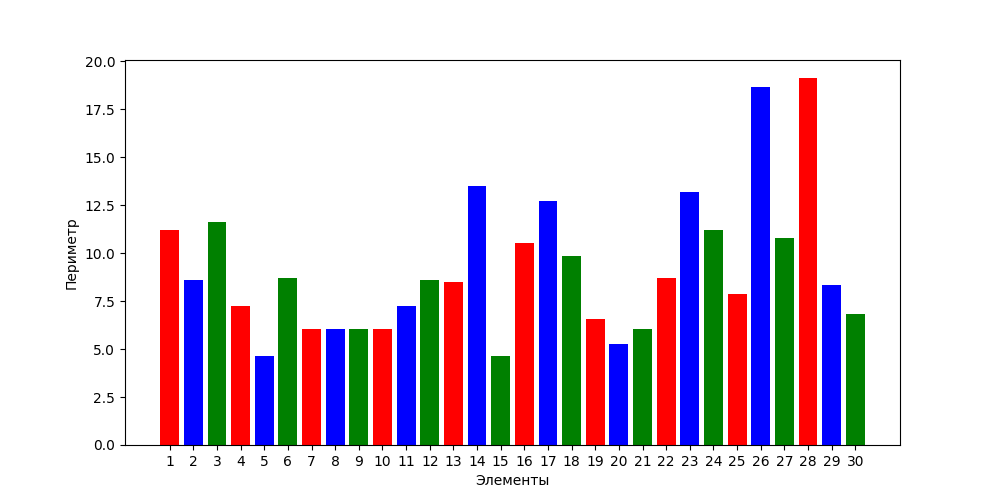
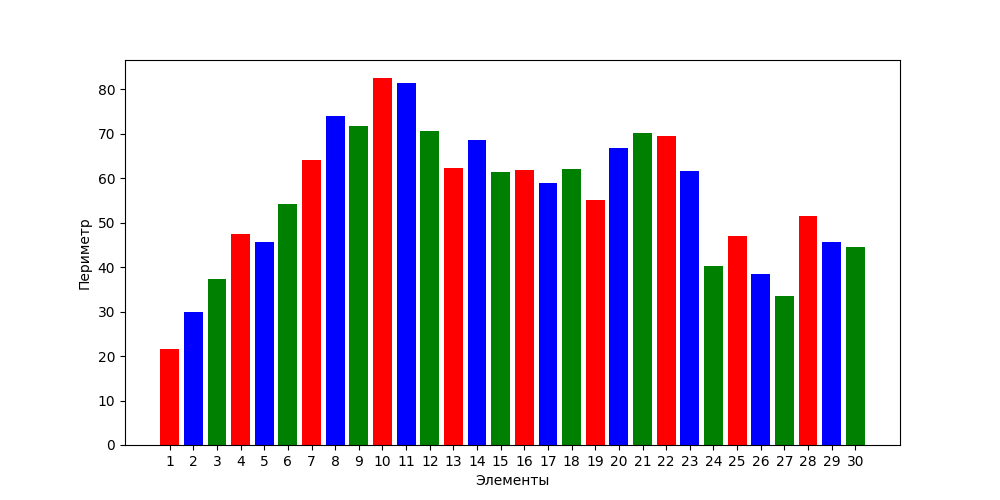
lab5 fix

diff --git a/lab5/app.py b/lab5/app.py
@@ -25,15 +25,15 @@ if __name__ == '__main__':
     for element in elements_list:
         sql = provider.get('get_node.sql', id=element[1])
         db_point = select_dict(app.config['db_config'], sql)[0]
-        point1 = Point(db_point['n1'], db_point['n2'], db_point['n3'])
+        point1 = Point(db_point['id'], db_point['x'], db_point['y'])
 
         sql = provider.get('get_node.sql', id=element[2])
         db_point = select_dict(app.config['db_config'], sql)[0]
-        point2 = Point(db_point['n1'], db_point['n2'], db_point['n3'])
+        point2 = Point(db_point['id'], db_point['x'], db_point['y'])
 
         sql = provider.get('get_node.sql', id=element[3])
         db_point = select_dict(app.config['db_config'], sql)[0]
-        point3 = Point(db_point['n1'], db_point['n2'], db_point['n3'])
+        point3 = Point(db_point['id'], db_point['x'], db_point['y'])
 
         cur_element = Element(element[0], point1, point2, point3)
         elements_dict[element[0]] = cur_element.get_perimeter()

diff --git a/lab4/results.md b/lab4/results.md
@@ -3,23 +3,24 @@ mpiexec -n 1 ./mpi.out 2048 1 0
 
 num_r_el 2048 
 
-Time: 87.651271
+Time: 64.856395
 # 2 threads
 mpiexec -n 2 ./mpi.out 2048 1 0
 
 num_r_el 2048 
 
-Time: 34.688125
+Time: 35.865047
 # 4 threads
 mpiexec -n 4 ./mpi.out 2048 1 0
 
 num_r_el 2048 
 
-Time: 15.767512
+Time: 17.749354
 # 8 threads
 
 mpiexec -n 8 ./mpi.out 2048 1 0
 
 num_r_el 2048 
 
-Time: 7.489143
+Time: 9.484734
+
